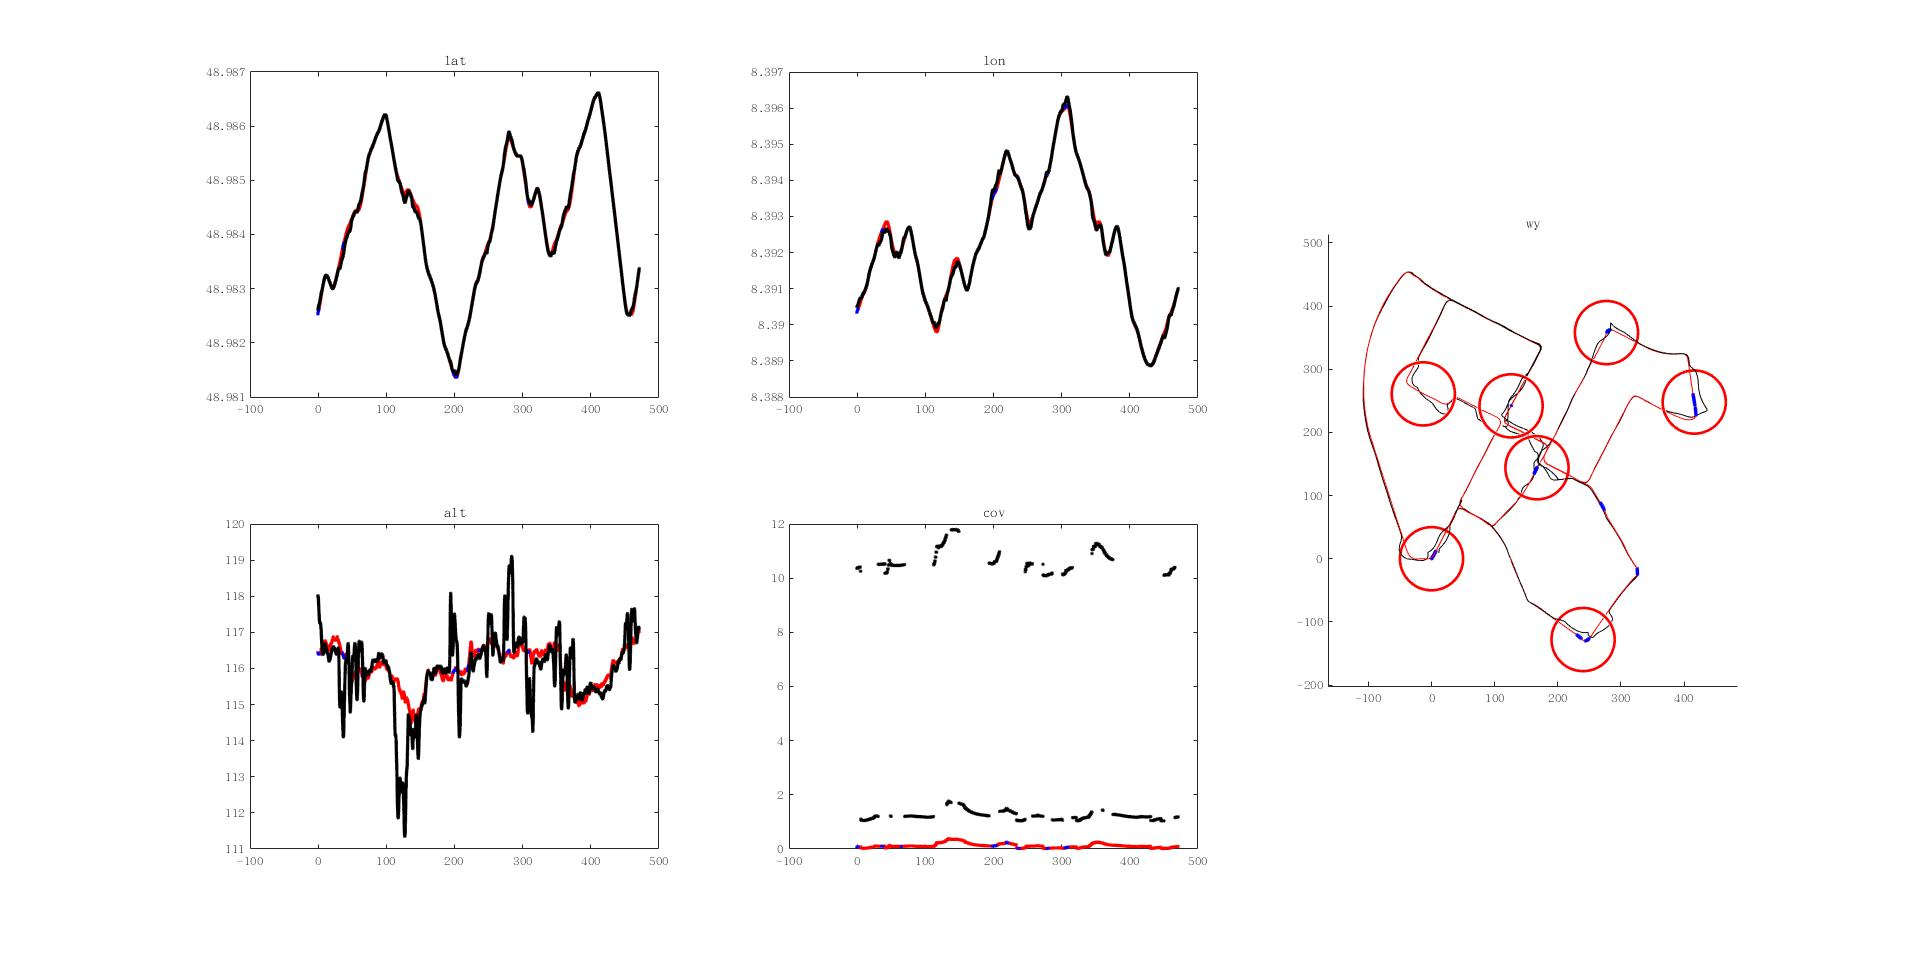
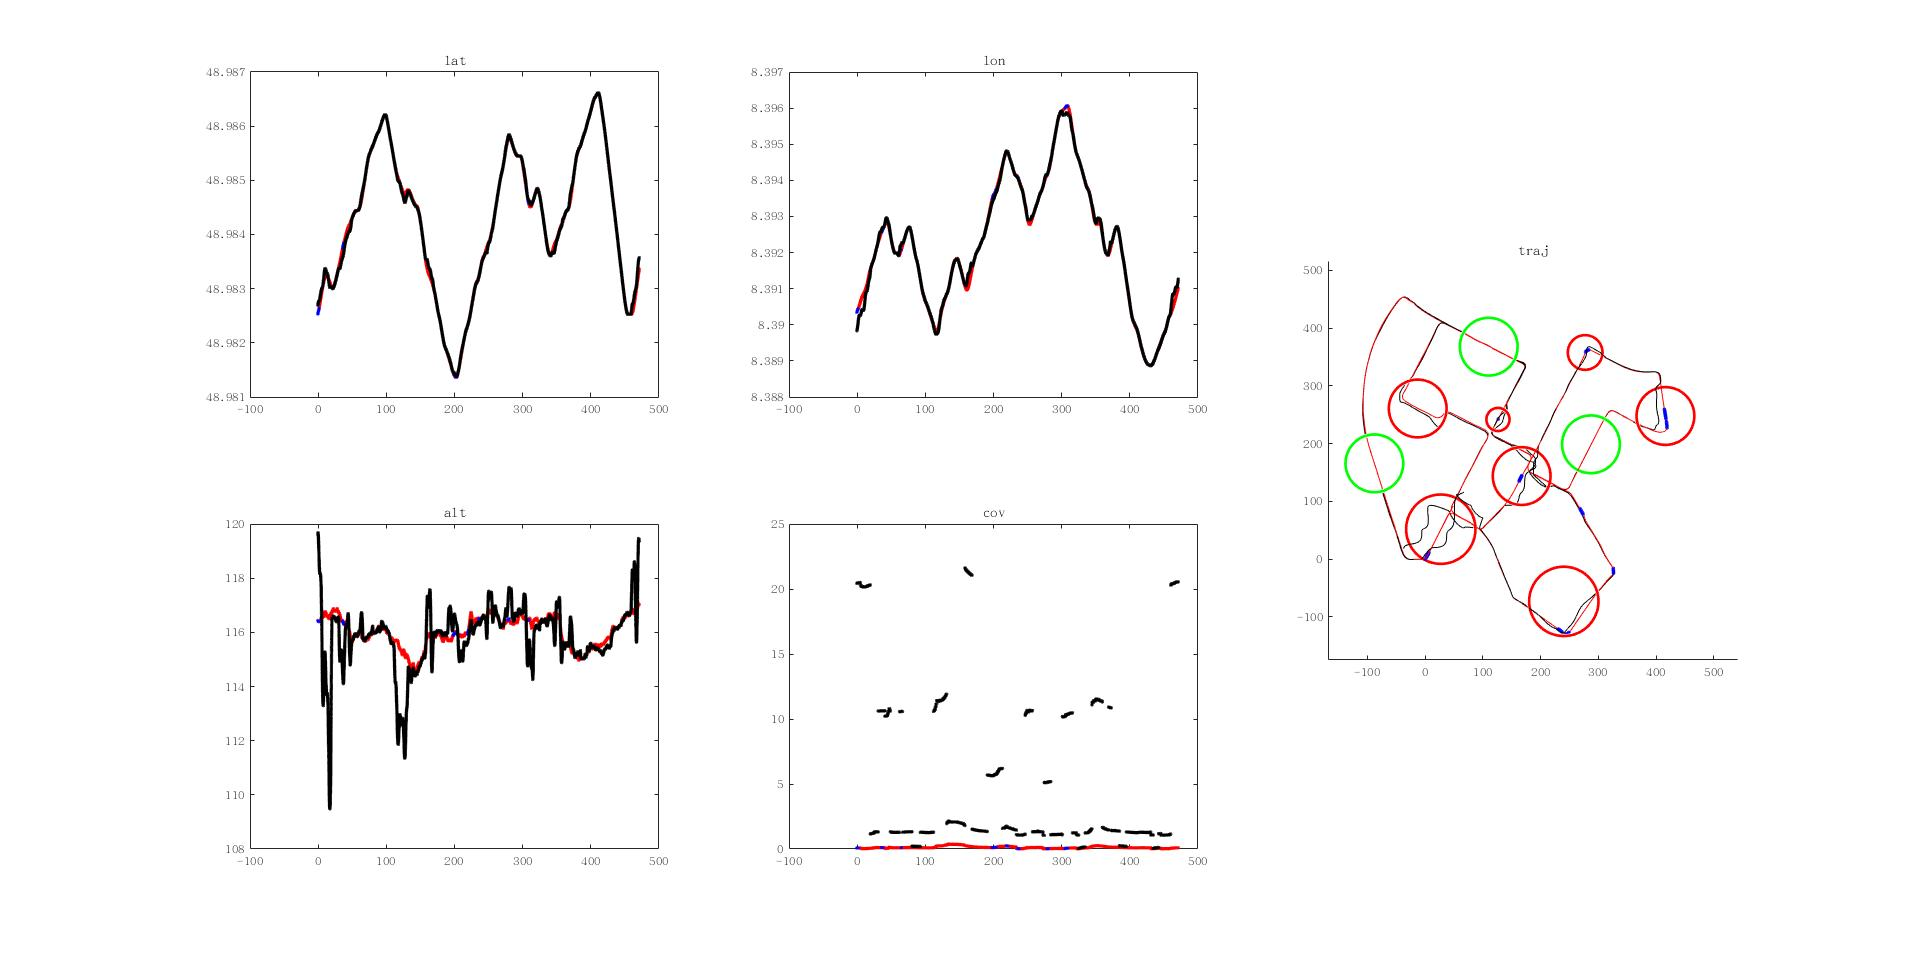
good gnss area func added

diff --git a/InterpAndNoiseGnss.m b/InterpAndNoiseGnss.m
@@ -1,15 +1,20 @@
 %% parameters
-good_bias = 1;
-bad_bias = 10;
-good_cov_multipler = 2;
+normal_cov_multipler = 2;
+normal_bias = 1;
+
 bad_cov_multipler = 5;
-bad_gnss_area = [   0   0       0   50;
-                    126 242     0  50;
-                    167 144     0   50;
-                    277 358     0   50;
-                    416 248     0   50;
-                    240 -128    0   50;
-                    -13 261     0   50];
+bad_gnss_area =	[	27      52	0	60	20;
+                    126     242	0	20	10;
+                    167     144	0   50  10;
+                    277     358	0   30  5;
+                    416     248	0   50  10;
+                    240     -73	0   60  5;
+                    -13     261	0   50  10];
+                
+good_cov_multipler = 1;
+good_gnss_area = [	110     368	0	50	0;
+                    -88     166	0	50	0;
+                    287     199	0	50	0;];
 %% plot orign data first
 [orign_e, orign_n, orign_u] = geodetic2enu(fixed_data(:,2),fixed_data(:,3),fixed_data(:,4),...
     fixed_data(1,2),fixed_data(1,3),fixed_data(1,4),wgs84Ellipsoid);
@@ -22,7 +27,7 @@ gnss_fig_h = figure;
     subplot(2,3,2);plot(fixed_data(:,1), fixed_data(:,3), 'r.');title('lon');hold on;
     subplot(2,3,4);plot(fixed_data(:,1), fixed_data(:,4), 'r.');title('alt');hold on;
     subplot(2,3,5);plot(fixed_data(:,1), fixed_data(:,25), 'r.');title('cov');hold on;
-    subplot(2,3,[3,6]);plot3(orign_e,orign_n,orign_u,'r'); axis equal; view(0,90);title('wy');hold on;
+    subplot(2,3,[3,6]);plot3(orign_e,orign_n,orign_u,'r'); axis equal; view(0,90);title('traj');hold on;
     
 nodata_index = find(isnan(orign_e));
 bp= find((nodata_index(2:end)-nodata_index(1:end-1))>1);
@@ -138,36 +143,53 @@ noised_data = interped_data;
 [orign_e, orign_n, orign_u] = geodetic2enu(interped_data(:,2),interped_data(:,3),interped_data(:,4),...
     interped_data(1,2),interped_data(1,3),interped_data(1,4),wgs84Ellipsoid);
 last_pt_in_bad_area = false;
+last_pt_in_good_area = false;
 edge_index = [];
 for i = 1:length(noised_data)
     % check if in bad gnss area
-    [d, idx] = min(sqrt(sum((bad_gnss_area(:,1:3)-[orign_e(i) orign_n(i) orign_u(i)]).^2,2)));
-    in_bad_gnss_area = d < bad_gnss_area(idx,4);
+    [db, idx_bad] = min(sqrt(sum((bad_gnss_area(:,1:3)-[orign_e(i) orign_n(i) orign_u(i)]).^2,2)));
+    in_bad_gnss_area = db < bad_gnss_area(idx_bad,4);
     
+    [dg, idx_good] = min(sqrt(sum((good_gnss_area(:,1:3)-[orign_e(i) orign_n(i) orign_u(i)]).^2,2)));
+    in_good_gnss_area = dg < good_gnss_area(idx_good,4);
     if in_bad_gnss_area
         % change cov
-        cov = interped_data(i,25) * bad_cov_multipler;
-        noised_data(i,25) = cov + bad_bias;
-        noised_ei = orign_e(i) + BiasGen(interped_data(i,1),bad_bias,0) + randn()*cov;
-        noised_ni = orign_n(i) + BiasGen(interped_data(i,1),bad_bias,1) + randn()*cov;
-        noised_ui = orign_u(i) + BiasGen(interped_data(i,1),0.2*bad_bias,2) + randn()*cov;
+        extra_cov = interped_data(i,25) * bad_cov_multipler;
+        noised_data(i,25) = extra_cov + bad_gnss_area(idx_bad,5) + noised_data(i,25);
+        noised_ei = orign_e(i) + BiasGen(interped_data(i,1),bad_gnss_area(idx_bad,5),4) + randn()*extra_cov;
+        noised_ni = orign_n(i) + BiasGen(interped_data(i,1),bad_gnss_area(idx_bad,5),1) + randn()*extra_cov;
+        noised_ui = orign_u(i) + BiasGen(interped_data(i,1),0.2*bad_gnss_area(idx_bad,5),2) + randn()*extra_cov;
+        [noised_data(i,2),noised_data(i,3),noised_data(i,4)] = ...
+            enu2geodetic(noised_ei, noised_ni, noised_ui,...
+            interped_data(1,2),interped_data(1,3),interped_data(1,4),wgs84Ellipsoid);
+    elseif in_good_gnss_area
+        extra_cov = interped_data(i,25) * good_cov_multipler;
+        noised_data(i,25) = extra_cov + good_gnss_area(idx_good,5) + noised_data(i,25);
+        noised_ei = orign_e(i) + BiasGen(interped_data(i,1),good_gnss_area(idx_good,5),1) + randn()*extra_cov;
+        noised_ni = orign_n(i) + BiasGen(interped_data(i,1),good_gnss_area(idx_good,5),1) + randn()*extra_cov;
+        noised_ui = orign_u(i) + BiasGen(interped_data(i,1),0.2*good_gnss_area(idx_good,5),2) + randn()*extra_cov;
         [noised_data(i,2),noised_data(i,3),noised_data(i,4)] = ...
             enu2geodetic(noised_ei, noised_ni, noised_ui,...
             interped_data(1,2),interped_data(1,3),interped_data(1,4),wgs84Ellipsoid);
     else
-        cov = interped_data(i,25) * good_cov_multipler;
-        noised_data(i,25) = cov + good_bias;
-        noised_ei = orign_e(i) + BiasGen(interped_data(i,1),good_bias,0) + randn()*cov;
-        noised_ni = orign_n(i) + BiasGen(interped_data(i,1),good_bias,1) + randn()*cov;
-        noised_ui = orign_u(i) + BiasGen(interped_data(i,1),0.2*good_bias,2) + randn()*cov;
+        extra_cov = interped_data(i,25) * normal_cov_multipler;
+        noised_data(i,25) = extra_cov + normal_bias + noised_data(i,25);
+        noised_ei = orign_e(i) + BiasGen(interped_data(i,1),normal_bias,0) + randn()*extra_cov;
+        noised_ni = orign_n(i) + BiasGen(interped_data(i,1),normal_bias,1) + randn()*extra_cov;
+        noised_ui = orign_u(i) + BiasGen(interped_data(i,1),0.2*normal_bias,2) + randn()*extra_cov;
         [noised_data(i,2),noised_data(i,3),noised_data(i,4)] = ...
             enu2geodetic(noised_ei, noised_ni, noised_ui,...
             interped_data(1,2),interped_data(1,3),interped_data(1,4),wgs84Ellipsoid);
     end
-    if xor(last_pt_in_bad_area,in_bad_gnss_area && i~=1 && i~= length(noised_data)) % in edge of area
-        edge_index = [edge_index; i];
+    at_bad_edge = xor(last_pt_in_bad_area,in_bad_gnss_area);
+    at_good_edge = xor(last_pt_in_good_area,in_good_gnss_area);
+    if at_bad_edge && i~=1 && i~= length(noised_data) % in edge of bad area
+        edge_index = [edge_index; i 1];
+    elseif at_good_edge && i~=1 && i~= length(noised_data) % in edge of good area
+        edge_index = [edge_index; i 2];
     end
     last_pt_in_bad_area = in_bad_gnss_area;
+    last_pt_in_good_area = in_good_gnss_area;
     str=['gnss 差值加噪声: ',num2str(100*i/length(noised_data)),'%'];
     waitbar(i/length(noised_data),bar,str);
 end
@@ -176,7 +198,12 @@ smooth_len = 100;
 for j = 1:length(gnssdata_col_idx)
     data_col_idx = gnssdata_col_idx(j);
     for i=1:length(edge_index)
-            data_idx = edge_index(i);
+            data_idx = edge_index(i,1);
+            if (edge_index(i,2) == 1)
+                smooth_len = 100;
+            elseif (edge_index(i,2) == 2)
+                smooth_len = 30;
+            end
             if ( data_idx -smooth_len -sample_size < 1 &&...
                     data_idx + smooth_len + sample_size < length(noised_data))
                 y = [ noised_data( data_idx-1, data_col_idx);...
@@ -218,9 +245,12 @@ end
     subplot(2,3,4);plot(noised_data(:,1), noised_data(:,4), 'k.');title('alt');hold on;
     subplot(2,3,5);plot(noised_data(:,1), noised_data(:,25), 'k.');title('cov');hold on;
     subplot(2,3,[3,6]);
-        plot3(noised_e,noised_n,noised_u,'k'); axis equal; view(0,90);title('wy');hold on;
+        plot3(noised_e,noised_n,noised_u,'k'); axis equal; view(0,90);title('traj');hold on;
         for i=1:length(bad_gnss_area)
-            viscircles(bad_gnss_area(i,1:2),bad_gnss_area(i,4));hold on;
+            viscircles(bad_gnss_area(i,1:2),bad_gnss_area(i,4),'Color','r');hold on;
+        end;
+        for i=1:length(good_gnss_area)
+            viscircles(good_gnss_area(i,1:2),good_gnss_area(i,4),'Color','g');hold on;
         end;
 close(bar);
 

diff --git a/WriteData.m b/WriteData.m
@@ -1,7 +1,7 @@
 output_data_path = strcat(kitti_path,'/RawDataFixed/',kitti_set,'/',...
     kitti_set,'_drive_',kitti_subset);
 
-save(strcat(output_data_path,'/','matlab_data.mat'));
+save(strcat(output_data_path,'/',output_name,'-matlab_data.mat'));
 %% fixed_data矩阵写出
 bar = waitbar(0,'fixed data矩阵写出');
 [nrows,~] = size(fixed_data);
@@ -79,7 +79,7 @@ close(bar);
 %% interped_data矩阵写出
 bar = waitbar(0,'noised data矩阵写出');
 [nrows,~] = size(noised_data);
-file_path = strcat(output_data_path,'/oxts-noised/data/');
+file_path = strcat(output_data_path,'/oxts-',output_name,'/data/');
 mkdir(file_path);
 
 timestamp_file = strcat(...
@@ -93,7 +93,7 @@ timestamp_posix = strcat(num2str(fix(imu_unsync_timestamp_sec_init + imu_unsync_
                         '.',...
                          num2str(fix(1e9*abs(mod(imu_unsync_timestamp_nsec_init + noised_data(:,1), 1))),'%09d'));
   
-fid_allin1 = fopen(strcat(output_data_path,'/oxts-noised/data.txt'),'w');
+fid_allin1 = fopen(strcat(output_data_path,'/oxts-',output_name,'/data.txt'),'w');
 for i = 1:nrows
    fid = fopen(strcat(file_path, num2str(i-1,'%010d'), '.txt'),'w');
    fprintf(fid,'%.14g ',noised_data(i,2:end));
@@ -107,7 +107,7 @@ end
 fclose(fid_allin1);
 
 
-fid = fopen(strcat(output_data_path,'/oxts-noised/timestamps.txt'),'w');
+fid = fopen(strcat(output_data_path,'/oxts-',output_name,'/timestamps.txt'),'w');
 for i = 1:size(timestamp_file,1)
     fprintf(fid,'%s\n',timestamp_file(i,:));
 end

diff --git a/ProcessKITTI.m b/ProcessKITTI.m
@@ -4,7 +4,7 @@ kitti_set = '2011_10_03';
 kitti_subset = '0027';
 kitti_path = '/media/joey/dataset/KITTI';
 output_path = '/media/joey/dataset/KITTI';
-
+output_name = 'noised-03';
 % Read data
 ReadData;
 %save 2011_10_03.mat;
